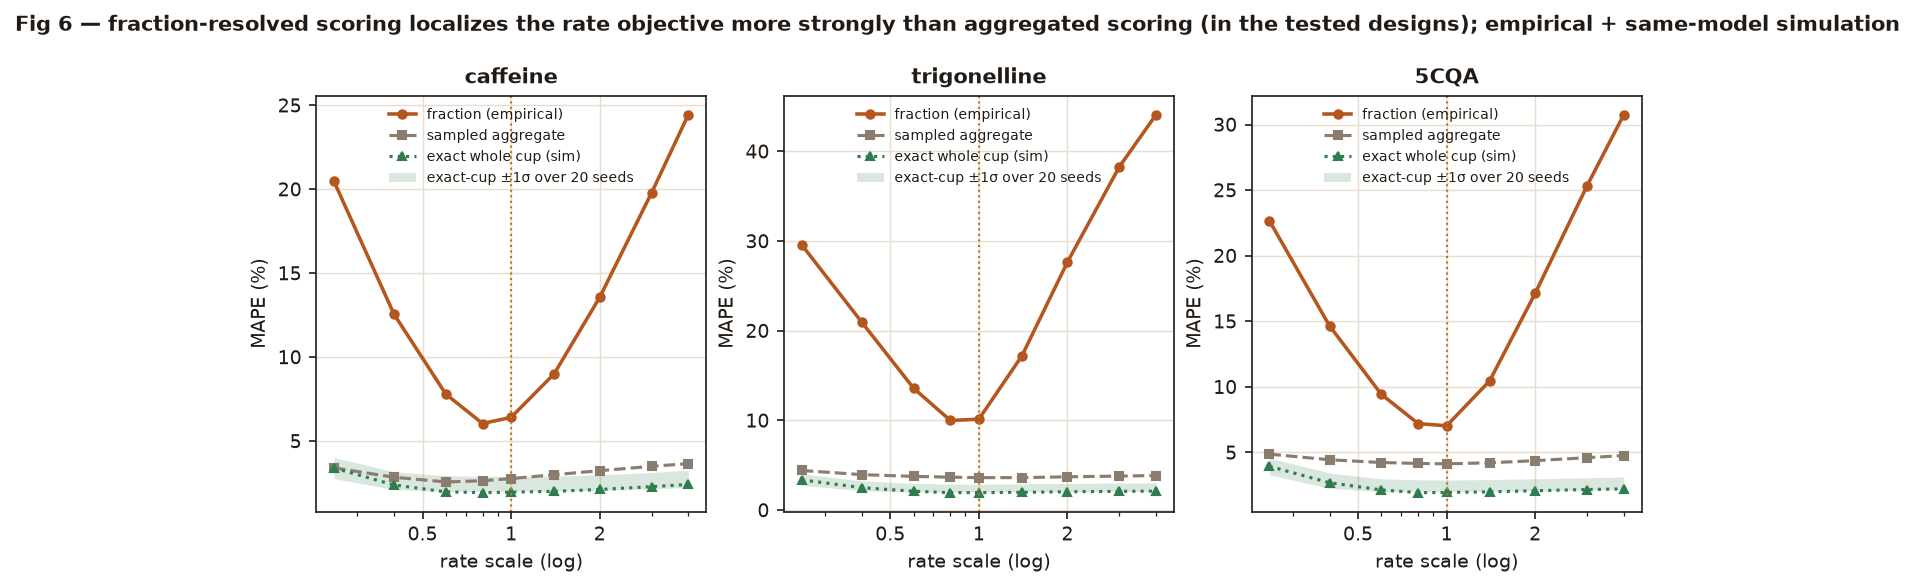
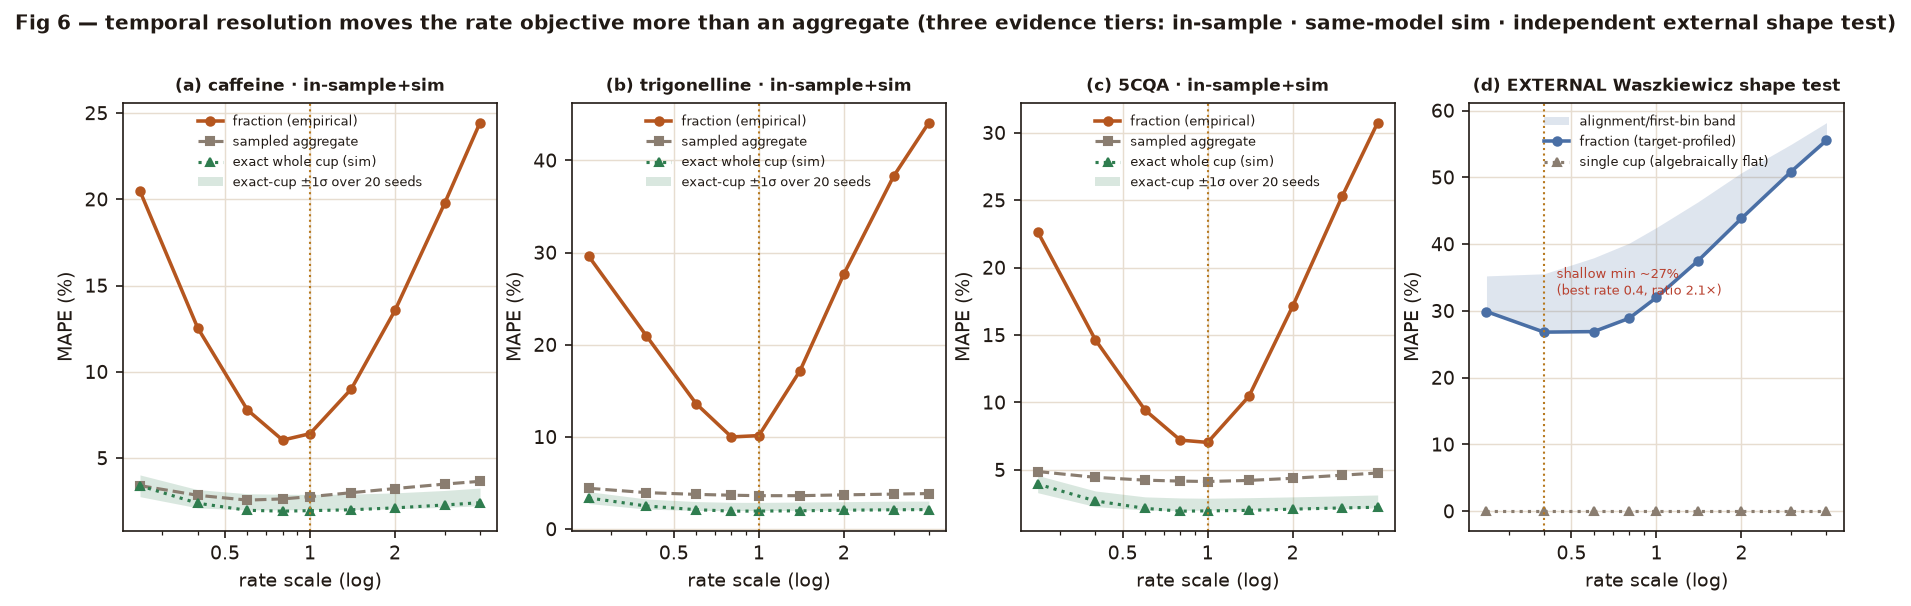
paper-a: Fig 6 three-tier redesign with external Waszkiewicz panel (A3-05)
Fig 6 now separates the temporal-resolution evidence into three clearly labelled
tiers rather than overlaying unlike evidence classes: (a-c) in-sample Schmieder
empirical fraction + same-model exact-cup simulation (±1σ 20-seed band); (d) the
INDEPENDENT external Waszkiewicz TDS trajectory as a target-profiled SHAPE test
-- its shallow ~27% minimum (best rate 0.4, ratio 2.1x) with an
alignment/first-bin sensitivity band, and the single cup flat by construction
(algebraic: one scalar + one profiled level). Resolves the abstract/Section-6
inconsistency where the external analysis carried weight but was absent from the
figure. Manuscript Fig 6 caption updated. All 8 figures render; tests green.

diff --git a/puckworks/figures_paper_a.py b/puckworks/figures_paper_a.py
@@ -426,13 +426,16 @@ def fig5_joint_residual(results=None, outdir=OUTDIR):
 
 
 def fig6_fraction_vs_endpoint(results=None, outdir=OUTDIR):
-    """Fig 6 — rate profiles: fraction scoring (sharp) vs endpoint scoring (flat),
-    both the empirical sampled aggregate and the exact-integral simulation."""
+    """Fig 6 — fraction-resolved vs aggregated scoring, in THREE clearly separated
+    evidence tiers (review A3-05/6.30): (a-c) in-sample Schmieder empirical fraction +
+    same-model exact-cup simulation with the ±1σ seed band; (d) the INDEPENDENT external
+    Waszkiewicz TDS trajectory as a target-profiled SHAPE test -- a shallow, high-residual
+    minimum with an alignment-sensitivity band, and the algebraically-flat single cup."""
     import numpy as np
     r = _load(results); plt = _plt()
     pc = r["positive_control"]["per_solute"]; sim = r["full_cup_sim"]["per_solute"]
-    fig, axes = plt.subplots(1, 3, figsize=(11.4, 3.6), sharey=False)
-    for ax, sol in zip(axes, ("caffeine", "trigonelline", "5CQA")):
+    fig, axes = plt.subplots(1, 4, figsize=(14.8, 3.7), sharey=False)
+    for ax, sol in zip(axes[:3], ("caffeine", "trigonelline", "5CQA")):
         x = pc[sol]; rr = np.array(x["rates"])
         ax.plot(rr, x["fraction_mape"], "o-", color=ACCENT, lw=1.7, ms=4,
                 label="fraction (empirical)")
@@ -441,24 +444,45 @@ def fig6_fraction_vs_endpoint(results=None, outdir=OUTDIR):
         sx = sim[sol]; sr = np.array(sx["rates"])
         ax.plot(sr, sx["exact_cup_mape"], "^:", color=GOOD, lw=1.5, ms=4,
                 label="exact whole cup (sim)")
-        # seed-distribution band (review A2-16): +/-1 std over the 20 noise realizations
-        # around the EXACT-CUP SIMULATION curve (the one plotted here) -- shows its
-        # flatness is not a single-seed accident. (The empirical-fraction curve above is
-        # seed-free real data, so it carries no seed band.) Drawn only when the harness
-        # surfaced the per-rate seed stats.
         if "exact_cup_mape_seed_mean" in sx and "exact_cup_mape_seed_std" in sx:
             cmean = np.array(sx["exact_cup_mape_seed_mean"]); cstd = np.array(sx["exact_cup_mape_seed_std"])
             ax.fill_between(sr, cmean - cstd, cmean + cstd, color=GOOD, alpha=0.18, lw=0,
                             label="exact-cup ±1σ over 20 seeds")
         ax.axvline(1.0, color=WARN, ls=":", lw=1.0)
-        ax.set_xscale("log"); ax.set_title(sol)
+        ax.set_xscale("log"); ax.set_title("(%s) %s · in-sample+sim"
+                                           % ("abc"[list(("caffeine", "trigonelline",
+                                              "5CQA")).index(sol)], sol), fontsize=8.2)
         ax.set_xlabel("rate scale (log)"); ax.set_ylabel("MAPE (%)")
         _logclean(ax)
-        ax.legend(fontsize=6.5, loc="upper center")
-    fig.suptitle("Fig 6 — fraction-resolved scoring localizes the rate objective more "
-                 "strongly than aggregated scoring (in the tested designs); "
-                 "empirical + same-model simulation",
-                 y=1.03, fontsize=10, fontweight="bold")
+        ax.legend(fontsize=6.0, loc="upper center")
+    # (d) EXTERNAL tier: Waszkiewicz target-profiled shape test
+    axe = axes[3]
+    ew = r.get("external_waszkiewicz")
+    if ew is not None:
+        er = np.array(ew["rates"], float)
+        cases = [v["fraction_mape"] for v in ew["per_case"].values()]
+        stack = np.array(cases, float)                    # (n_case, n_rate) alignment band
+        head = ew["per_case"].get("offset0s_no_first_bin") or list(ew["per_case"].values())[0]
+        axe.fill_between(er, stack.min(0), stack.max(0), color="#4a6fa5", alpha=0.18, lw=0,
+                         label="alignment/first-bin band")
+        axe.plot(er, head["fraction_mape"], "o-", color="#4a6fa5", lw=1.7, ms=4,
+                 label="fraction (target-profiled)")
+        axe.plot(er, head["cup_mape"], "^:", color=NULL, lw=1.5, ms=4,
+                 label="single cup (algebraically flat)")
+        bi = head["fraction_best_rate"]; mn = head["fraction_min_mape"]
+        axe.axvline(bi, color=WARN, ls=":", lw=1.0)
+        axe.annotate("shallow min ~%.0f%%\n(best rate %.1f, ratio %.1f×)"
+                     % (mn, bi, head["fraction_range_ratio"]),
+                     (bi, mn), textcoords="offset points", xytext=(6, 18), fontsize=6.2,
+                     color=BAD)
+        axe.set_xscale("log"); _logclean(axe)
+        axe.set_title("(d) EXTERNAL Waszkiewicz shape test", fontsize=8.2)
+        axe.set_xlabel("rate scale (log)"); axe.set_ylabel("MAPE (%)")
+        axe.legend(fontsize=6.0, loc="upper center")
+    fig.suptitle("Fig 6 — temporal resolution moves the rate objective more than an "
+                 "aggregate (three evidence tiers: in-sample · same-model sim · "
+                 "independent external shape test)", y=1.04, fontsize=9.4,
+                 fontweight="bold")
     return _save(fig, outdir, "fig6_fraction_vs_endpoint.png")
 
 

diff --git a/docs/PAPER_A_DRAFT.md b/docs/PAPER_A_DRAFT.md
@@ -607,8 +607,11 @@ slow analysis functions, none hand-typed):
   O-trained level-only constant baseline** and reporting the pooled skill (§5, A3-01).
 - **Fig 5** — joint shared-(c_s0, rate) residual by variety × solute × grind, with
   the cost-of-sharing and rate-boundary flags (§5).
-- **Fig 6** — rate profiles: fraction scoring (sharp) vs the sampled aggregate and
-  the exact-integral whole cup (both flat) (§6).
+- **Fig 6** — rate profiles in **three evidence tiers** (§6): (a–c) in-sample Schmieder
+  empirical fraction + same-model exact-cup simulation with the ±1σ 20-seed band;
+  (d) the **independent external Waszkiewicz** TDS trajectory as a target-profiled shape
+  test — a shallow ~27 % minimum with an alignment-sensitivity band and the
+  algebraically-flat single cup (one scalar + one profiled level).
 
 ## 9. Related work
 